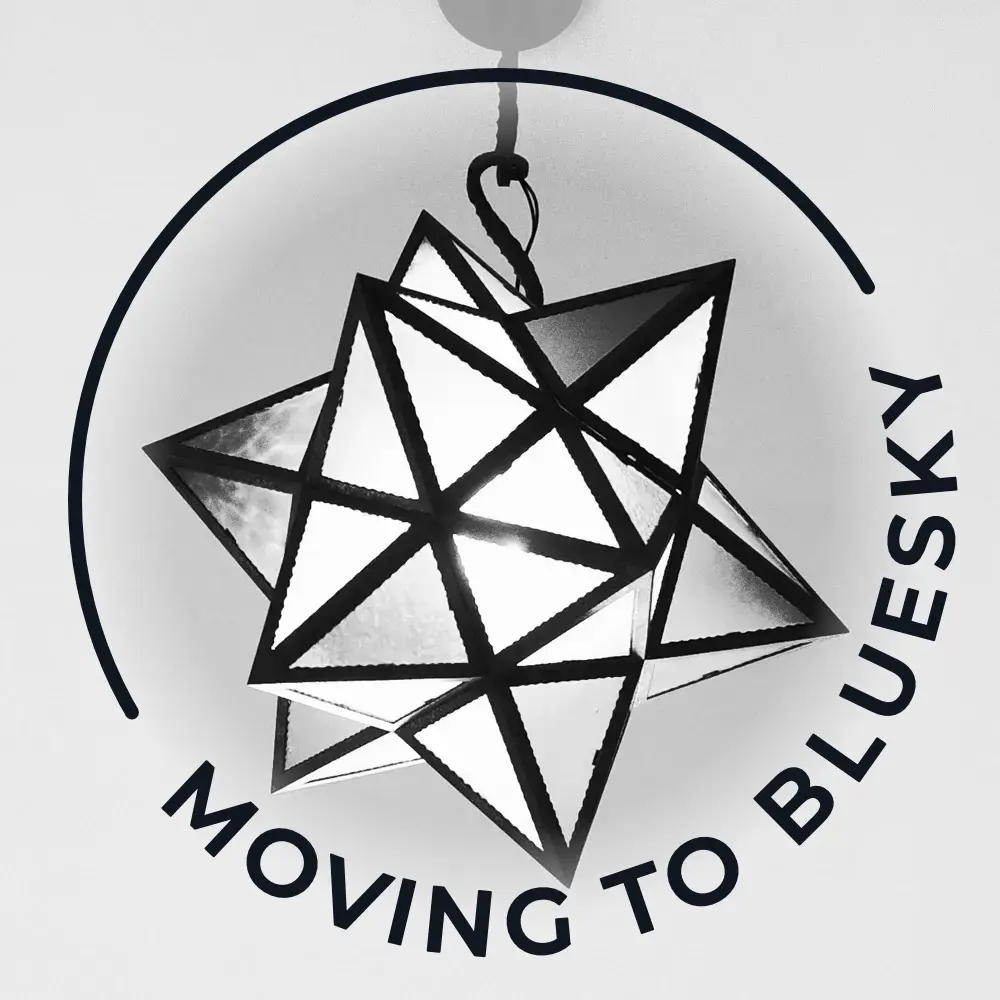
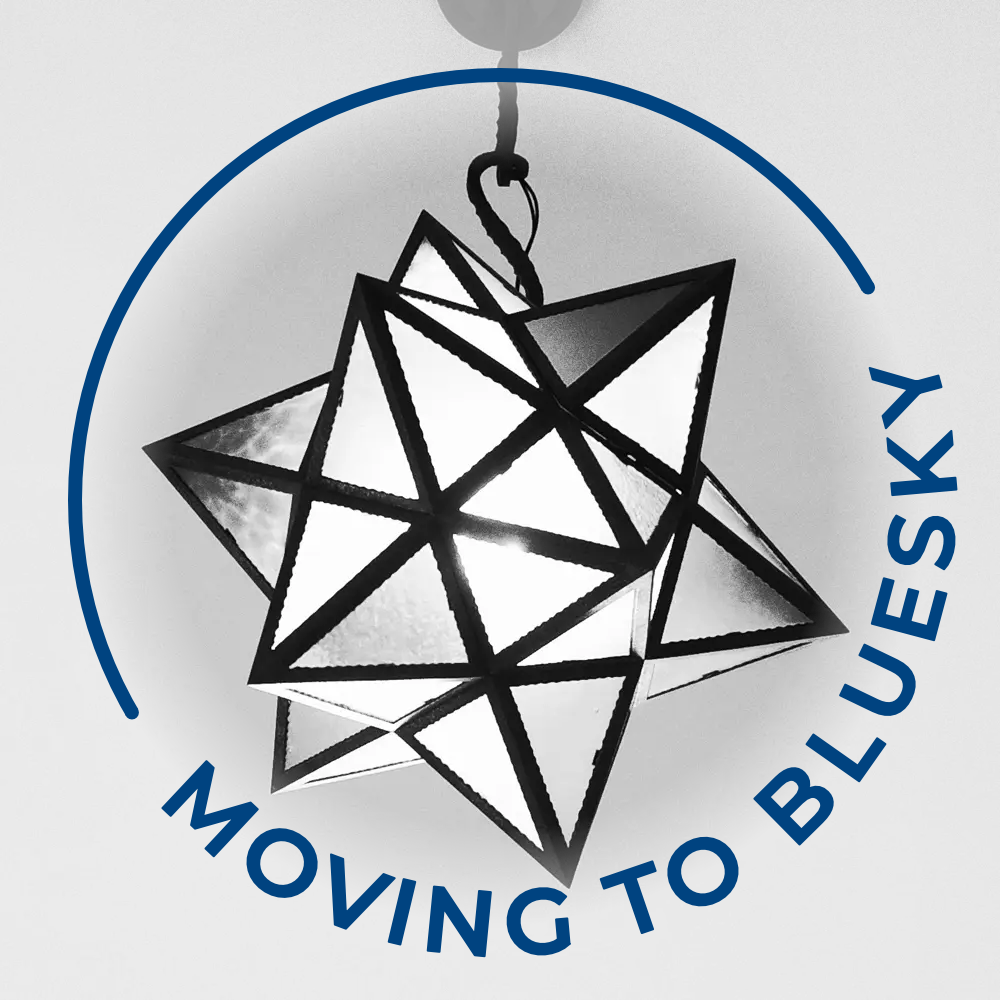
added overlay images (light blue and navy blue)

diff --git a/src/index.html b/src/index.html
@@ -16,7 +16,7 @@
   <link rel="alternate" hreflang="ja" href="https://skyframe.ikada.net/ja/">
   <link rel="alternate" hreflang="x-default" href="https://skyframe.ikada.net/">
   <meta property="og:title" content="SkyFrame" />
-  <meta property="og:description" content="A simple overlay tool for updating an X (formerly Twitter) profile picture to announce that you've on Bluesky." />
+  <meta property="og:description" content="A simple overlay tool for updating an X (formerly Twitter) profile picture to show that you're on Bluesky." />
   <meta property="og:image" content="https://media.ikada.net/skyframe/featured.webp" />
   <meta property="og:url" content="https://skyframe.ikada.net/" />
   <meta property="og:type" content="website" />
@@ -24,7 +24,7 @@
   <meta name="twitter:card" content="summary_large_image" />
   <meta name="twitter:image" content="https://media.ikada.net/skyframe/featured.webp" />
   <meta name="twitter:title" content="SkyFrame" />
-  <meta name="description" content="A simple overlay tool for updating an X (formerly Twitter) profile picture to announce that you've on Bluesky." />
+  <meta name="description" content="A simple overlay tool for updating an X (formerly Twitter) profile picture to show that you're on Bluesky." />
   <meta name="fediverse:creator" content="@ikada@mastodon.social">
   <script src="./lang.js"></script>
 </head>
@@ -74,14 +74,16 @@
           <label><input type="radio" name="theme" value="strong"> Strong</label>
         </div>
         <div class="option">
+          <p>Font Color</p>
+          <label><input type="radio" name="fontcolor" value="white" checked> White</label>
+          <label><input type="radio" name="fontcolor" value="lightblue"> Light Blue</label>
+          <label><input type="radio" name="fontcolor" value="black"> Black</label>
+          <label><input type="radio" name="fontcolor" value="navyblue"> Navy Blue</Nav></label>
+        </div>
+        <div class="option">
           <p>Transparency</p>
           <label><input type="radio" name="transparency" value="a" checked> A</label>
           <label><input type="radio" name="transparency" value="b"> B</label>
-        </div>
-        <div class="option">
-          <p>Font color</p>
-          <label><input type="radio" name="fontcolor" value="white" checked> White</label>
-          <label><input type="radio" name="fontcolor" value="black"> Black</label>
         </div>
         <div class="option">
           <p>Text</p>
@@ -118,7 +120,7 @@
       </div>
     </footer>
   </div>
-  <script src="./main.js"></script>
+  <script src="./main.js" defer></script>
 </body>
 
 </html>

diff --git a/src/ja/index.html b/src/ja/index.html
@@ -75,14 +75,16 @@
           <label><input type="radio" name="theme" value="strong"> Strong</label>
         </div>
         <div class="option">
+          <p>文字色</p>
+          <label><input type="radio" name="fontcolor" value="white" checked> White</label>
+          <label><input type="radio" name="fontcolor" value="lightblue"> Light Blue</label>
+          <label><input type="radio" name="fontcolor" value="black"> Black</label>
+          <label><input type="radio" name="fontcolor" value="navyblue"> Navy Blue</Nav></label>
+        </div>
+        <div class="option">
           <p>透明度</p>
           <label><input type="radio" name="transparency" value="a" checked> A</label>
           <label><input type="radio" name="transparency" value="b"> B</label>
-        </div>
-        <div class="option">
-          <p>文字色</p>
-          <label><input type="radio" name="fontcolor" value="white" checked> White</label>
-          <label><input type="radio" name="fontcolor" value="black"> Black</label>
         </div>
         <div class="option">
           <p>メッセージ</p>
@@ -95,8 +97,8 @@
         <canvas id="canvas"></canvas>
       </div>
       <div class="download-button">
-        <button id="downloadPngBtn">PNGをダウンロード</button>
-        <button id="downloadJpegBtn">JPEGをダウンロード</button>
+        <button id="downloadPngBtn">PNGを保存</button>
+        <button id="downloadJpegBtn">JPEGを保存</button>
       </div>
       <section>
         <div class="link">
@@ -114,7 +116,7 @@
         <a href="https://github.com/ikada47/skyframe" target="_blank">更新履歴 / GitHub</a>
         <ul>
           <li>2025年12月 公開</li>
-          <li>2026年5月 日本語版を追加</li>
+          <li>2026年5月 日本語版を追加 · 文字色を追加</li>
         </ul>
         <p>オーバーレイ画像はAffinityで作成しました。Inter、Montserrat、Jostフォントを使用。</p>
         <p>画像処理は端末内で行われます。画像は外部サーバーに送信されません。</p>
@@ -124,7 +126,7 @@
       </div>
     </footer>
   </div>
-  <script src="../main.js"></script>
+  <script src="../main.js" defer></script>
 </body>
 
 </html>

diff --git a/src/style.css b/src/style.css
@@ -172,11 +172,11 @@ button:focus {
 .options-group {
   display: flex;
   flex-wrap: wrap;
-  gap: 1.5rem;
+  gap: .5rem 1.5rem;
 }
 
 .option p {
-  margin: 0 0;
+  margin: 0;
 }
 
 .option>label {

diff --git a/README.md b/README.md
@@ -39,6 +39,11 @@ It currently provides three overlay themes:
   Uses the *Jost* font
 
 All overlay images were created using Affinity (vector graphic editor).
+## Release Notes
+
+- December 2025: Released
+
+- May 2026: Added a Japanese page, added overlay images (light blue and navy blue)
 
 ## License
 
